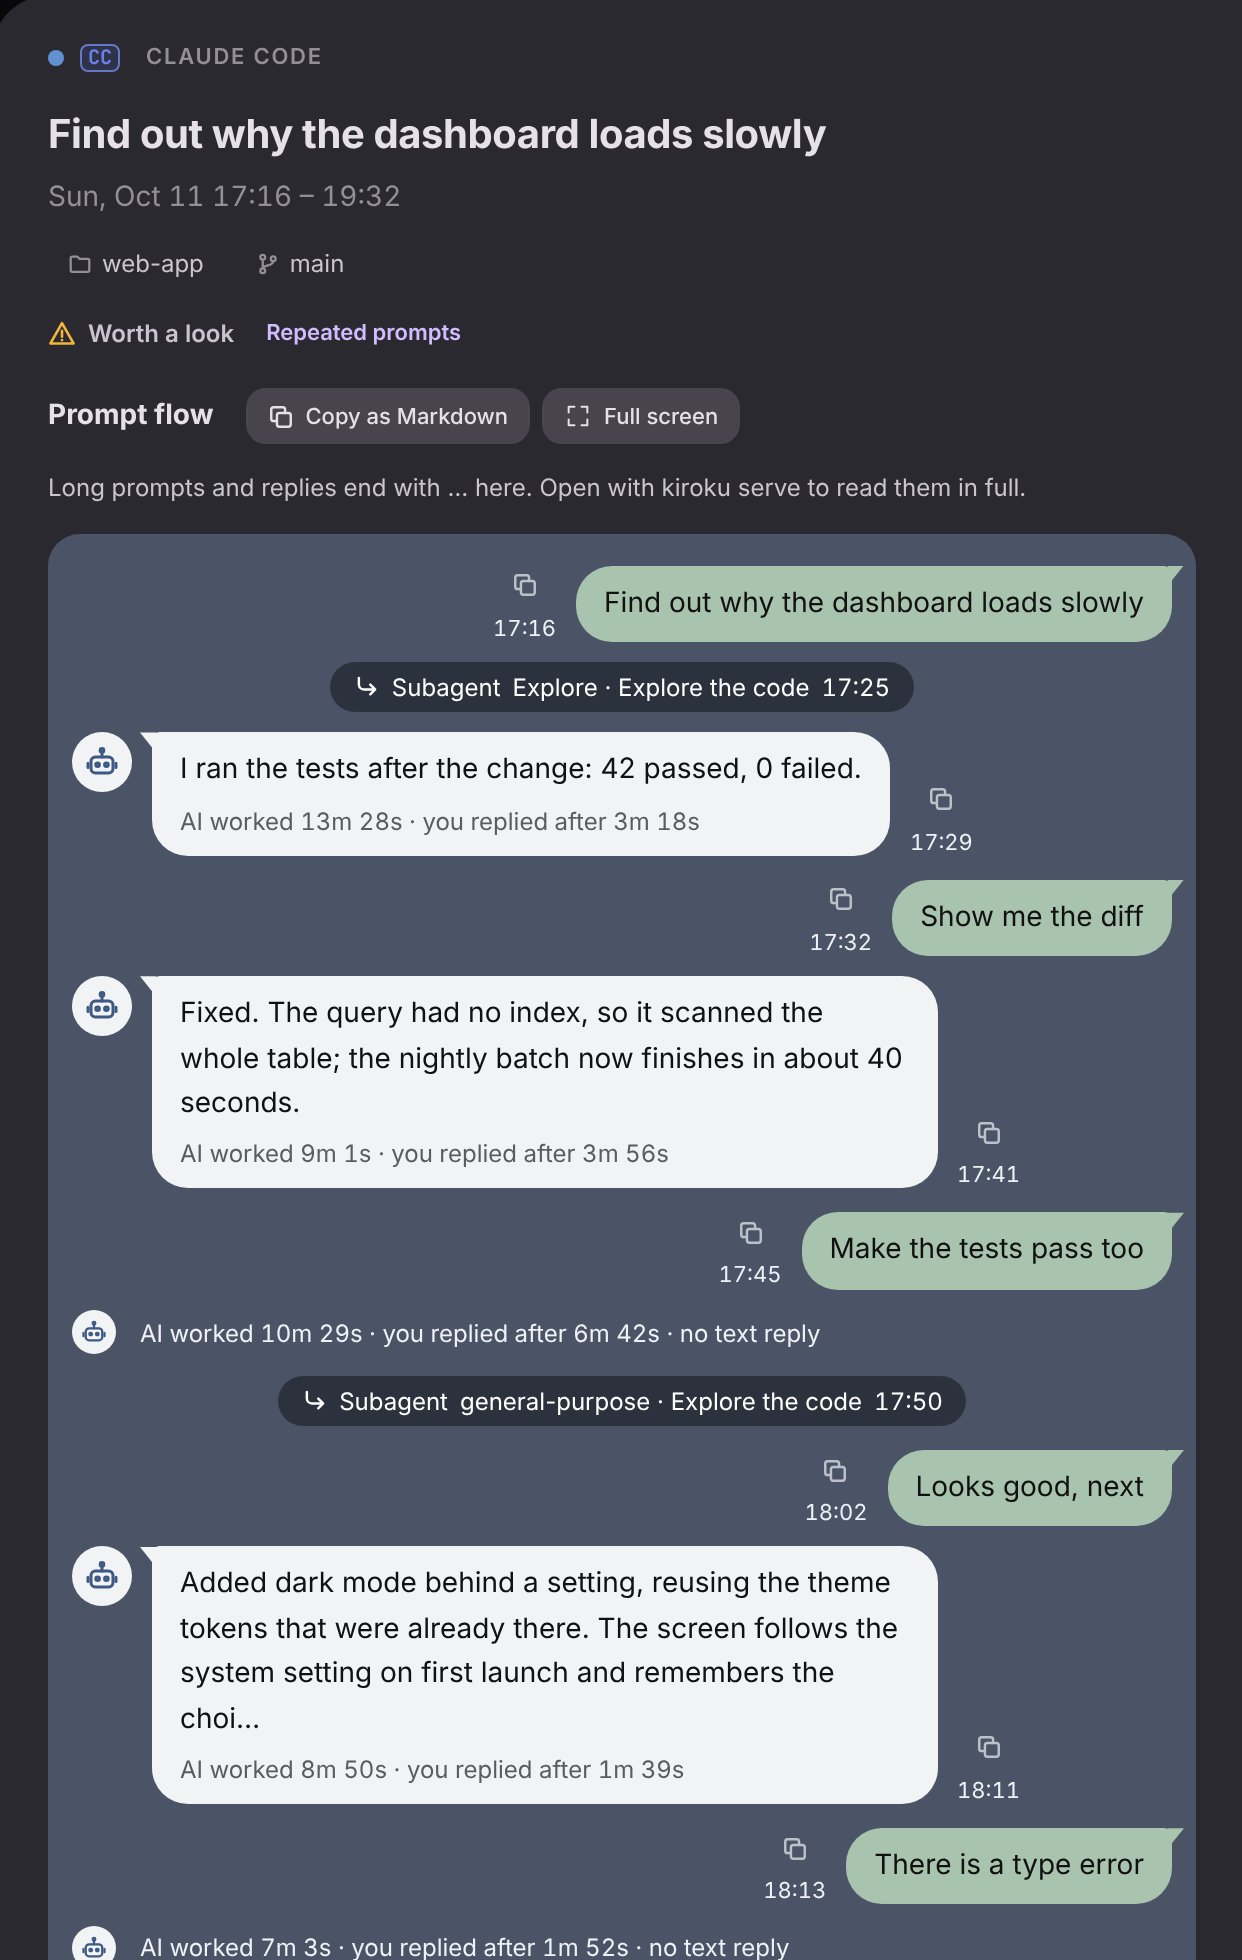
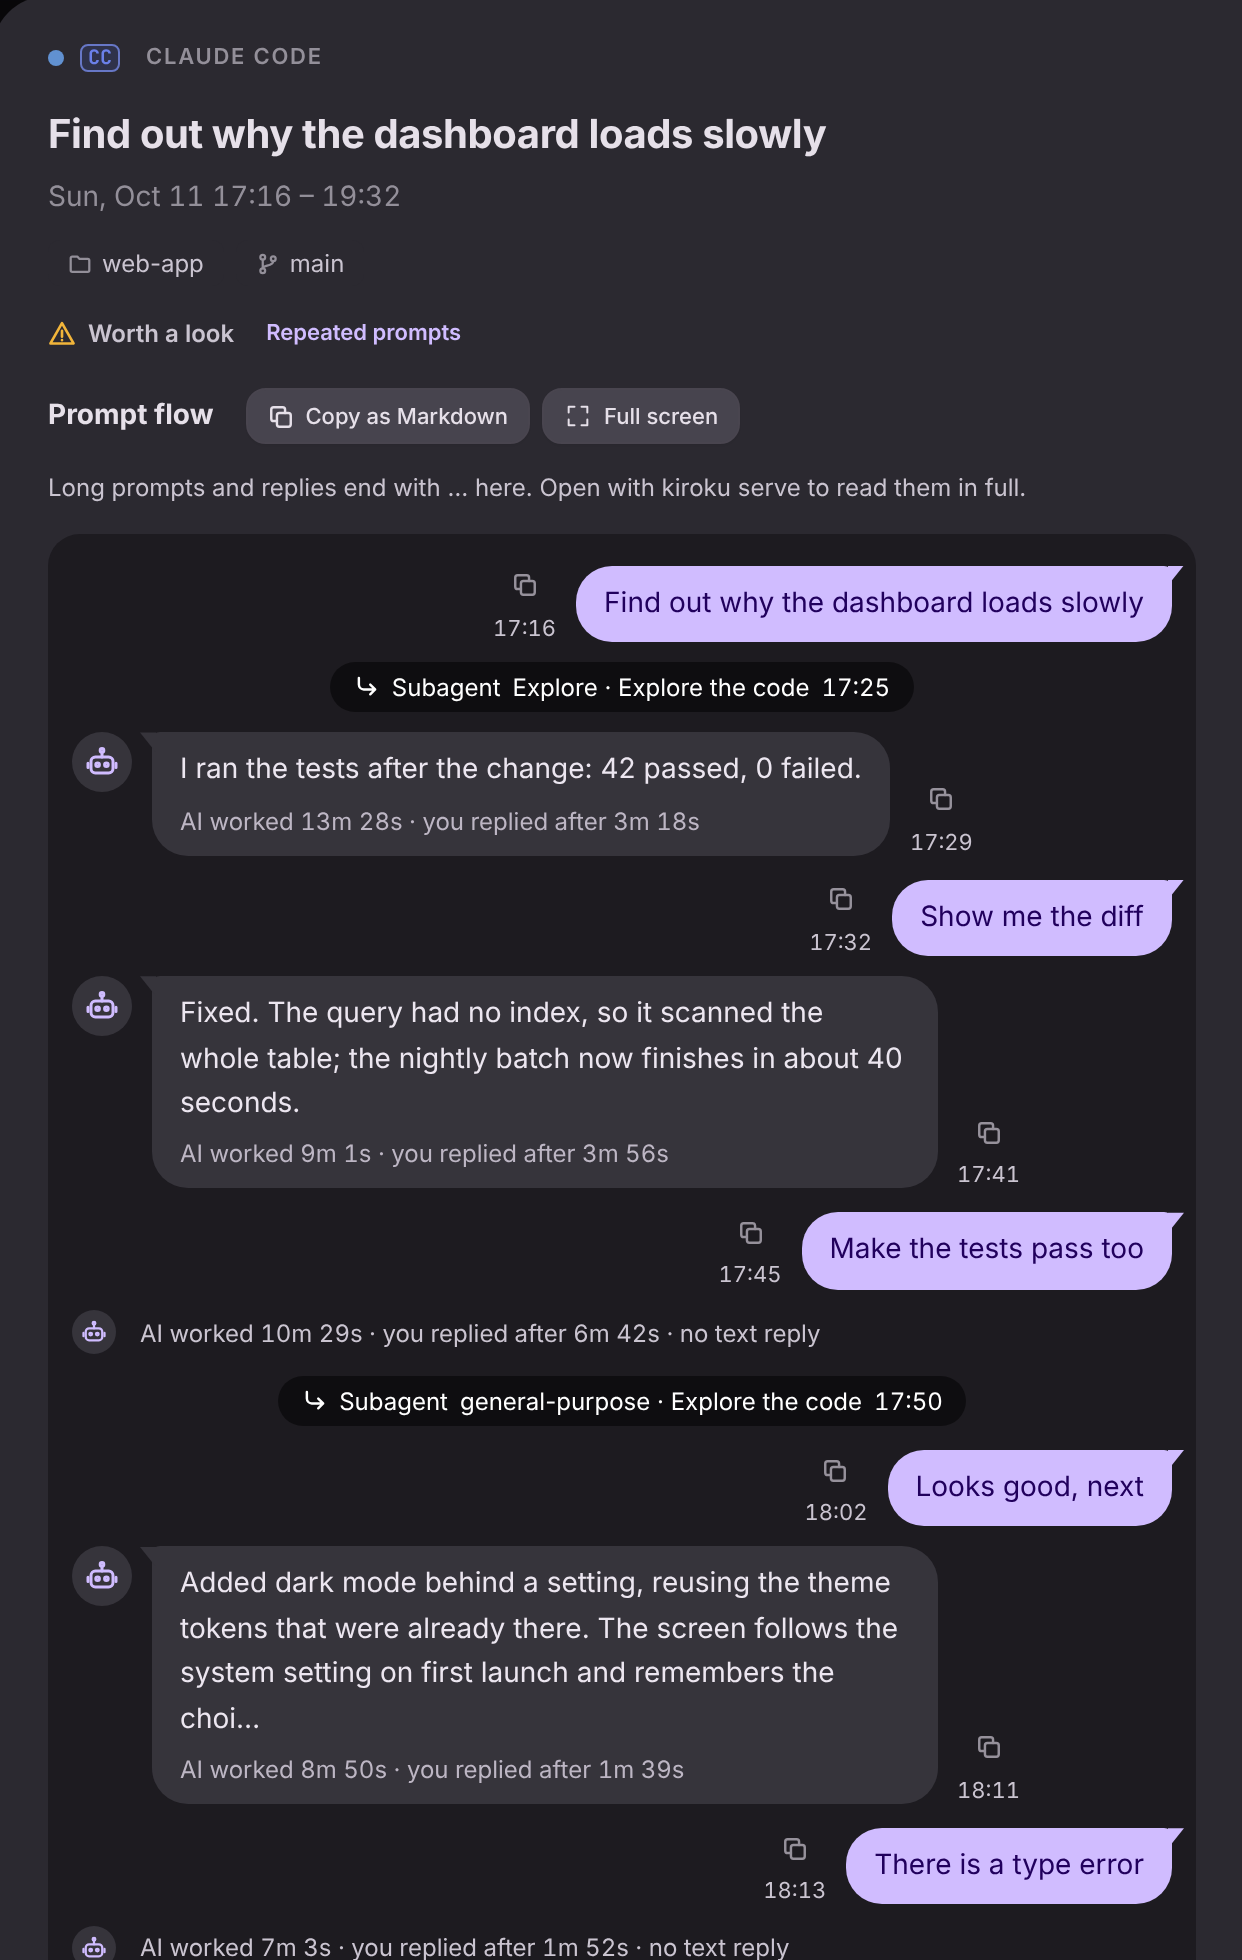
Prompt flow: dark background, purple prompts, dark gray replies
The slate background with pale bubbles made the light time labels and the bubbles hard to tell apart. The flow now sits on the view's own dark background; your prompts are kiroku's purple with dark text, replies a slightly lighter dark gray with light text. Every text pair stays at or above 4.5:1; the reply bubble is told apart from the background by lightness (ΔE 8 or more) instead of a 3:1 edge, since its text carries it. Guide, smoke, session.png and demo.gif follow.

diff --git a/internal/web/style.css b/internal/web/style.css
@@ -960,12 +960,12 @@ header{background:var(--s-cont);border-bottom:0}
 @media (max-width:520px){.istats .stat:last-child:nth-child(odd){grid-column:auto}}
 /* スマホ：指標の切り替えは折り返さず、横にスクロール */
 @media (max-width:820px){.insk{flex-wrap:nowrap;overflow-x:auto;max-width:100%;scrollbar-width:none}.insk::-webkit-scrollbar{display:none}.insk button{flex:none}.inshead{flex-wrap:wrap}}
-/* ── プロンプトの流れ：メッセージアプリの会話の形（吹き出し・しっぽ・左右）。色は特定のアプリに寄せず、画面のダークに合う落ち着いた色 ──
-   灰青のスレートの地に、あなたの発言は右のくすんだ緑の吹き出しに黒い字（右に小さなしっぽ。自分の印は出さない）、AI の応答は左の白い吹き出しに黒い字（左にしっぽ、その左に丸い印）。
+/* ── プロンプトの流れ：メッセージアプリの会話の形（吹き出し・しっぽ・左右）。色は画面のダークに合わせる ──
+   画面と同じ暗い地に、あなたの発言は右の kiroku の紫の吹き出しに濃い紫の字（右に小さなしっぽ。自分の印は出さない）、AI の応答は左の一段明るい暗い灰の吹き出しに明るい字
+   （左にしっぽ、その左に丸い印）。自分の発言がアクセントの色なので、どこで指示したかを拾いやすく、長い応答はまぶしくない。
    時刻とコピーは吹き出しの下の端の横（あなたは吹き出しの左、AI は右）。あいだに起きたこと（コミット・PR・中断など）は、真ん中の半透明の濃い札に白い字（上限と中断は赤い札）。
-   時刻・コピーなど吹き出しの外の字は、暗い地の上なので明るい字にする。
    字と地の組み合わせは palette_test.go の TestChatContrast で確かめる（字は 4.5:1、小さな印は 3:1 以上）。値を変えるときは両方を直す */
-.tl{--chat-bg:#4a5466;--chat-ink:#eef1f5;--chat-me:#a9c4ae;--chat-me-ink:#111111;--chat-me-meta:#2b4a12;--chat-me-tag:rgba(0,0,0,.1);--chat-me-warn:#6b0d08;--chat-ai:#f2f3f5;--chat-ai-ink:#111111;--chat-ai-meta:#5c5c5c;--chat-ai-mark:#3d5a85;--chat-link:#1f5fbf;--chat-sys:rgba(0,0,0,.4);--chat-sys-ink:#ffffff;--chat-note:#c9c6ff;--chat-warn:#a8201a;--chat-warn-ink:#ffffff;--chat-gap:#3d4656;background:var(--chat-bg);border-radius:16px;padding:14px 12px}
+.tl{--chat-bg:#1d1b20;--chat-ink:#cac4d0;--chat-me:#d0bcff;--chat-me-ink:#21005d;--chat-me-meta:#4a3880;--chat-me-tag:rgba(0,0,0,.1);--chat-me-warn:#701410;--chat-ai:#36343b;--chat-ai-ink:#ece6f0;--chat-ai-meta:#bdb6c4;--chat-ai-mark:#d0bcff;--chat-link:#a8c7fa;--chat-sys:rgba(0,0,0,.5);--chat-sys-ink:#ffffff;--chat-note:#c9c6ff;--chat-warn:#a8201a;--chat-warn-ink:#ffffff;--chat-gap:#2b2930;background:var(--chat-bg);border-radius:16px;padding:14px 12px}
 .tl li>time,.tl time,.drawer .tl time{color:var(--chat-ink)}
 .tl :focus-visible,.tl li.pr:focus-visible{outline-color:var(--chat-ink)}
 .tl li.pr:not(.ev)>.av{display:none}

diff --git a/internal/web/palette_test.go b/internal/web/palette_test.go
@@ -136,7 +136,7 @@ func deltaE(a, b string, sim *[3][3]float64) float64 {
 // プロンプトの流れ（.tl）は、メッセージアプリの形の吹き出し（色は特定のアプリに寄せない）。字と地の組み合わせが読めることを確かめる:
 //   - 吹き出しの字・時刻・小さな字（4.5:1 以上。WCAG 2.x の相対輝度のコントラスト比）
 //   - コピーのボタン・AI の印・出来事の印・言い直しの破線など小さな印（3:1 以上）
-//   - AI の白い吹き出しと流れの地（3:1 以上）
+//   - AI の吹き出しと流れの地は、明るさの差で見分けられる（ΔE 8 以上）
 //
 // 色は LINE のトーク画面（地 #7494c0・緑 #8de055）から十分に離す（ΔE 15 以上。寄せすぎだという声で離した）。
 //
@@ -180,7 +180,6 @@ func TestChatContrast(t *testing.T) {
 		{"correction or long tag in your prompt", v("chat-me-warn"), tag, 4.5},
 		{"correction's dashed outline", v("chat-me-warn"), me, 3},
 		{"AI reply", v("chat-ai-ink"), ai, 4.5},
-		{"AI bubble on the background", ai, bg, 3},
 		{"AI reply meta and cut note", v("chat-ai-meta"), ai, 4.5},
 		{"link in an AI reply", v("chat-link"), ai, 4.5},
 		{"AI mark in its round avatar", v("chat-ai-mark"), ai, 3},
@@ -194,6 +193,11 @@ func TestChatContrast(t *testing.T) {
 		if r := contrast(c.fg, c.bg); r < c.min {
 			t.Errorf("%s: %s on %s is %.2f:1, want at least %.1f:1", c.name, c.fg, c.bg, r, c.min)
 		}
+	}
+	// AI の吹き出しは、暗い地より一段明るい暗い灰（字は上で 4.5:1 以上）。吹き出しの形は字で読めるので 3:1 の境目は求めないが、
+	// 地と見分けられる明るさの差（ΔE 8 以上）はあること
+	if d := deltaE(ai, bg, nil); d < 8 {
+		t.Errorf("AI bubble %s is too close to the background %s (ΔE %.1f), want at least 8", ai, bg, d)
 	}
 	for _, c := range []struct{ name, got, line string }{
 		{"background", bg, "#7494c0"},

diff --git a/docs/guide.md b/docs/guide.md
@@ -105,7 +105,7 @@ The old forms `kiroku --serve`, `--json`, `-o` and `--weekly` / `--monthly` have
 - "Color by" Project / Agent is the selector at the start of the legend (Agent by default). The legend belongs to the calendar and is not shown in the summary. The numbers in the legend are active time, split between sessions that ran at the same time like in "Where it went"; click an item to show or hide it. Active time, tokens and credits can't be split that way, so while items are hidden the key figures at the top and those under each date stay totals for all sessions and are shown in gray, with a note above the calendar. On a wide window the legend stays in one row; when it doesn't fit, scroll it sideways (the right edge fades while there is more). In the week calendar, each week picks the height of an hour (44px, or 36px when needed) that fits its working hours, from the morning start to the latest end, in the calendar
 - Click a bar to show its details. On wide screens the left column is the prompt flow with times, and the right column has, from the top, what you can do (the resume command and "Copy prompt" for a review), the key numbers (active time, prompts, wait time, cost and tokens) and the rest (what was left behind: commits, pull requests, files edited by AI, each path a link to the commit on the remote when there is one; subagents; and, at the end, the history file, models used and tools used). On narrow screens the same parts come in the order: what you can do, the key numbers, the prompt flow, the rest. The keyboard (`Tab`) goes through them in that order on any width
   - When the session is behind a metric flagged in "Worth a look" for the period shown, those metrics are listed under the title; press one to open the same dialog
-  - The prompt flow reads like a chat, in time order, in the colors and shapes of a classic messaging app on a blue-gray background (the rest of the view stays dark): your prompts are green bubbles with black text on the right, the AI's replies are white bubbles with black text on the left next to a round robot mark, each bubble with a small tail, and the time sits small beside the bubble's bottom edge (left of yours, right of the AI's) with the copy button above it. What happened between them (commits, pull requests created, usage limit hits with the reset time the message gave, interruptions, compactions, notes and subagents starting) is a dark label with white text in the middle (red for limits and interruptions). Opening a commit from the flow and pressing back returns to where you were reading
+  - The prompt flow reads like a chat, in time order, in the shapes of a messaging app on the view's dark background: your prompts are bubbles in kiroku's purple with dark text on the right, the AI's replies are dark gray bubbles with light text on the left next to a round robot mark, each bubble with a small tail, and the time sits small beside the bubble's bottom edge (left of yours, right of the AI's) with the copy button above it. What happened between them (commits, pull requests created, usage limit hits with the reset time the message gave, interruptions, compactions, notes and subagents starting) is a dark label with white text in the middle (red for limits and interruptions). Opening a commit from the flow and pressing back returns to where you were reading
   - Each of your prompts and each AI reply has a copy button (faint until you point at it) that copies its text as recorded, to reuse it. A long prompt or reply the view cut is copied in full
   - The copy button next to **Prompt flow** copies the whole conversation, prompts and replies in order, as Markdown, to hand the work to another agent or paste it into a PR or a note
   - **Full screen** next to it (or `F`) shows only the prompt flow across the whole window, for reading a long conversation; `Esc` or the button again returns to the details. It stays on while you move to other sessions

diff --git a/changes/chat-colors.changed.md b/changes/chat-colors.changed.md
@@ -1,0 +1,1 @@
+- The prompt flow is easier to read: it sits on the view's own dark background, your prompts are in kiroku's purple with dark text, and replies are in a slightly lighter dark gray with light text, so your prompts stand out and long replies aren't bright
